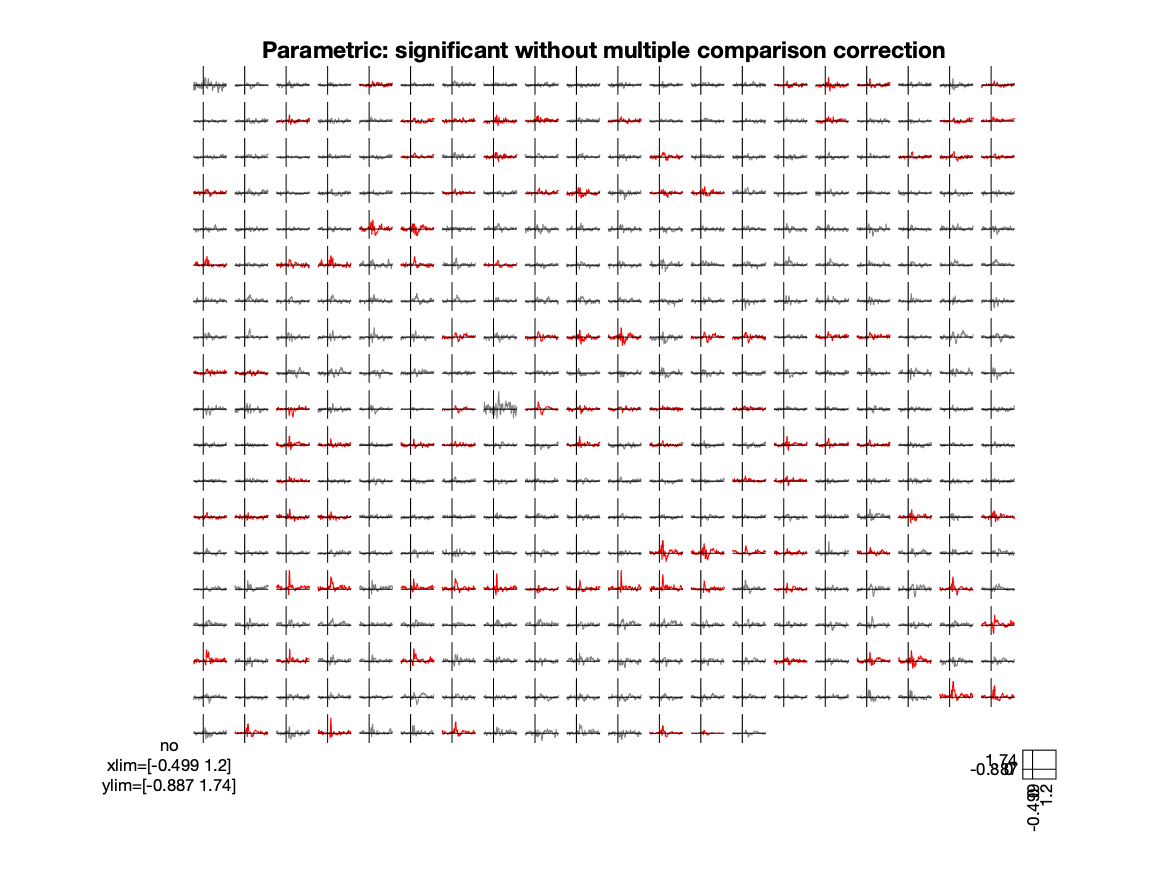
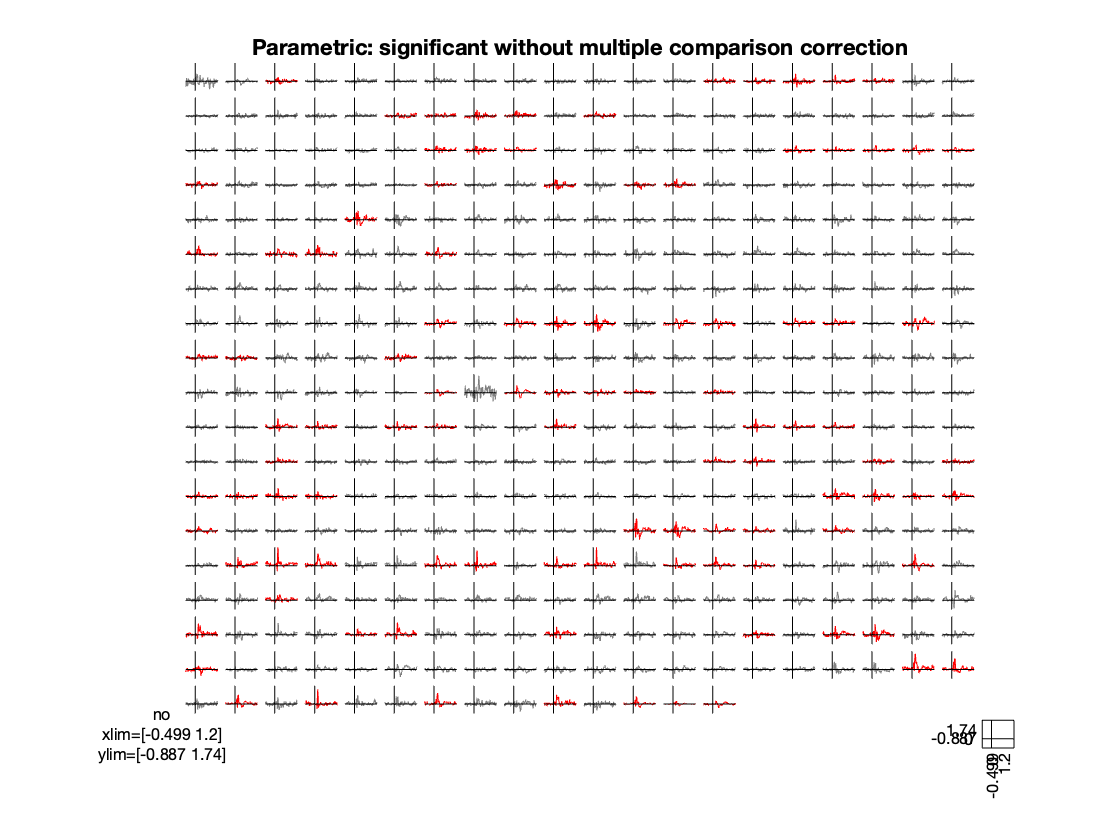
corrected the subject number and updated the figures accordingly

diff --git a/workshop/practicalmeeg2025/handson_groupanalysis.md b/workshop/practicalmeeg2025/handson_groupanalysis.md
@@ -4,7 +4,7 @@ tags: [practicalmeeg2025, meg, timelock, statistics, plotting, mmfaces]
 ---
 
 {% include markup/skyblue %}
-This tutorial was written specifically for the [PracticalMEEG workshop in Aix-en-Provence](/workshop/practicalmeeg2025) in October 2025  and is part of a coherent sequence of tutorials. It is an adjusted version of the [event-related statistics tutorial](/tutorial/stats/eventrelatedstatistics) and an updated version of the corresponding tutorial for [PracticalMEEG in 2022](/workshop/practicalmeeg2022) and for [Paris 2019](/workshop/paris2019).
+This tutorial was written specifically for the [PracticalMEEG workshop in Aix-en-Provence](/workshop/practicalmeeg2025) in October 2025 and is part of a coherent sequence of tutorials. It is an adjusted version of the [event-related statistics tutorial](/tutorial/stats/eventrelatedstatistics) and an updated version of the corresponding tutorial for [PracticalMEEG in 2022](/workshop/practicalmeeg2022) and for [Paris 2019](/workshop/paris2019).
 {% include markup/end %}
 
 ## Introduction
@@ -13,7 +13,7 @@ This tutorial provides an introduction into different options for statistical an
 
 To introduce the issue of multiple comparisons, we will start with an analysis for a single hand-picked channel/parcel analysis. After that we will consider analyses that take all virtual channels and all timepoints into account. We will start with some basic statistical testing using the MATLAB statistics toolbox and compare the results with that from using the FieldTrip **[ft_timelockstatistics](/reference/ft_timelockstatistics)** function. Topics that will be covered are parametric statistics on a single channel and time-window, the multiple comparison problem (MCP), non-parametric randomization testing and cluster-based testing.
 
-This tutorial uses the same [multimodal faces](/workshop/practicalmeeg2025/dataset) as the other tutorials in this series. However, here we will deal with (statistical) analyses on the group level. We will look at differences between the familiar, unfamiliar and scrambled face conditions in a within-subjects design. The processed dataset in this tutorial contains source reconstructed data from all 20 subjects. The virtual-channel ERFs were obtained using **[ft_sourceanalysis](/reference/ft_sourceanalysis)** and **[ft_sourceparcellate](/reference/ft_sourceparcellate)**. For the purpose of inspecting your data visually, we also use the channel-level plotting functions and **[ft_timelockgrandaverage](/reference/ft_timelockgrandaverage)** to calculate the grand average across participants.
+This tutorial uses the same [multimodal faces](/workshop/practicalmeeg2025/dataset) as the other tutorials in this series. However, here we will deal with (statistical) analyses on the group level. We will look at differences between the familiar, unfamiliar and scrambled face conditions in a within-subjects design. The processed dataset in this tutorial contains source reconstructed data from all 16 subjects. The virtual-channel ERFs were obtained using **[ft_sourceanalysis](/reference/ft_sourceanalysis)** and **[ft_sourceparcellate](/reference/ft_sourceparcellate)**. For the purpose of inspecting your data visually, we also use the channel-level plotting functions and **[ft_timelockgrandaverage](/reference/ft_timelockgrandaverage)** to calculate the grand average across participants.
 
 Note that in this tutorial we will not provide detailed information about statistics on channel-level power spectra, time-frequency representations of power (as obtained from **[ft_freqanalysis](/reference/ft_freqanalysis)**), nor on high-density volumetric or cortical sheet source reconstruction results. However, FieldTrip does have similar statistical options for this as well: at the sensor-level we have the **[ft_freqstatistics](/reference/ft_freqstatistics)** function, and on the source-level (statistics on source reconstructed activity), we have the **[ft_sourcestatistics](/reference/ft_sourcestatistics)** function.
 
@@ -32,7 +32,7 @@ and the [Cluster-based permutation tests on time-frequency data](/tutorial/stats
 
 ## Procedure
 
-To do parametric or non-parametric statistics on virtual-channel event-related fields in a within-subject design, we will use the dataset of 20 subjects that has been preprocessed, source-reconstructed, and averaged over cortical parcels.
+To do parametric or non-parametric statistics on virtual-channel event-related fields in a within-subject design, we will use the dataset of 16 subjects that has been preprocessed, source-reconstructed, and averaged over cortical parcels.
 
 We will perform the following steps in this tutorial:
 
@@ -49,7 +49,7 @@ To begin with we will load the source reconstructed and parcellated results from
     % load individual subject data
     clear subj
     iSub = 0;
-    for k = [1:8 10:16]
+    for k = [1:16]
       iSub = iSub+1;
       subj(iSub) = datainfo_subject(k);
     end
@@ -164,7 +164,7 @@ From the grand average plot we can zoom in on our comparison of interest and onl
 
     figure;
     for iSub = 1:numel(subj)
-      subplot(3, 5, iSub)
+      subplot(4, 4, iSub)
       % use the rectangle to indicate the time range used later
       rectangle('Position', [time(1) 0 (time(2)-time(1)) ymax], 'FaceColor', [1 1 1]*0.9);
       hold on;
@@ -213,7 +213,7 @@ In practice you should _not_ guide your statistical analysis by a visual inspect
 
 #### T-test with MATLAB function
 
-You can do a dependent samples t-test with the MATLAB [ttest](https://www.mathworks.com/help/stats/ttest.html) function (in the Statistics toolbox) where you average over this time window for each condition, and compare the average between conditions. From the output, we look at the output variable 'stats' and see that the effect on the selected time and channel is significant with a t-value of 2.4332 and a p-value of 0.029.
+You can do a dependent samples t-test with the MATLAB [ttest](https://www.mathworks.com/help/stats/ttest.html) function (in the Statistics toolbox) where you average over this time window for each condition, and compare the average between conditions. From the output, we look at the output variable 'stats' and see that the effect on the selected time and channel is significant with a t-value of 2.3933 and a p-value of 0.0302.
 
     % dependent samples ttest
     famous_minus_scrambled = values_famous - values_scrambled;
@@ -234,7 +234,7 @@ You can do the same thing in FieldTrip (which does not require the statistics to
     cfg.alpha = 0.05;
     cfg.correctm = 'no';
 
-    Nsub = 15;
+    Nsub = 16;
     cfg.design(1, 1:2*Nsub) = [ones(1, Nsub) 2*ones(1, Nsub)];
     cfg.design(2, 1:2*Nsub) = [1:Nsub 1:Nsub];
     cfg.ivar = 1; % the 1st row in cfg.design contains the independent variable
@@ -303,10 +303,10 @@ Below you can see the means by which to implement a Bonferroni correction. Howev
 #### Bonferroni correction with MATLAB function
 
     % with Bonferroni correction for multiple comparisons
-    famous_minus_scrambled = zeros(1, 15);
+    famous_minus_scrambled = zeros(1, 16);
 
     for iChan = 1:374
-      for iSub = 1:15
+      for iSub = 1:16
         famous_minus_scrambled(iSub) = ...
           mean(avg_famous{iSub}.avg(iChan, timesel)) - ...
           mean(avg_scrambled{iSub}.avg(iChan, timesel));
@@ -327,7 +327,7 @@ Below you can see the means by which to implement a Bonferroni correction. Howev
     cfg.alpha = 0.05;
     cfg.correctm = 'bonferroni';
 
-    Nsub = 15;
+    Nsub = 16;
     cfg.design(1, 1:2*Nsub) = [ones(1, Nsub) 2*ones(1, Nsub)];
     cfg.design(2, 1:2*Nsub) = [1:Nsub 1:Nsub];
     cfg.ivar = 1; % the 1st row in cfg.design contains the independent variable
@@ -357,7 +357,7 @@ This is implemented in FieldTrip in the function **[ft_statistics_montecarlo](/r
     cfg.correcttail = 'prob';
     cfg.numrandomization = 1000;
 
-    Nsub = 15;
+    Nsub = 16;
     cfg.design(1, 1:2*Nsub) = [ones(1, Nsub) 2*ones(1, Nsub)];
     cfg.design(2, 1:2*Nsub) = [1:Nsub 1:Nsub];
     cfg.ivar = 1; % the 1st row in cfg.design contains the independent variable
@@ -420,7 +420,7 @@ If your channels in the data are close to each other, you can also use the featu
     cfg.correcttail = 'prob';
     cfg.numrandomization = 500;
 
-    Nsub = 15;
+    Nsub = 16;
     cfg.design(1, 1:2*Nsub) = [ones(1, Nsub) 2*ones(1, Nsub)];
     cfg.design(2, 1:2*Nsub) = [1:Nsub 1:Nsub];
     cfg.ivar = 1; % the 1st row in cfg.design contains the independent variable
